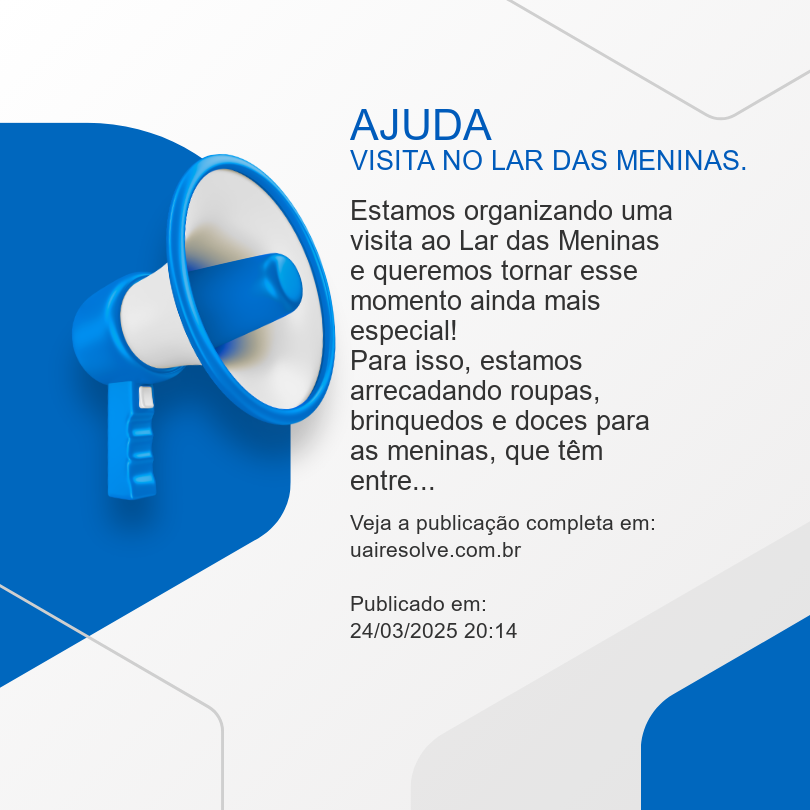
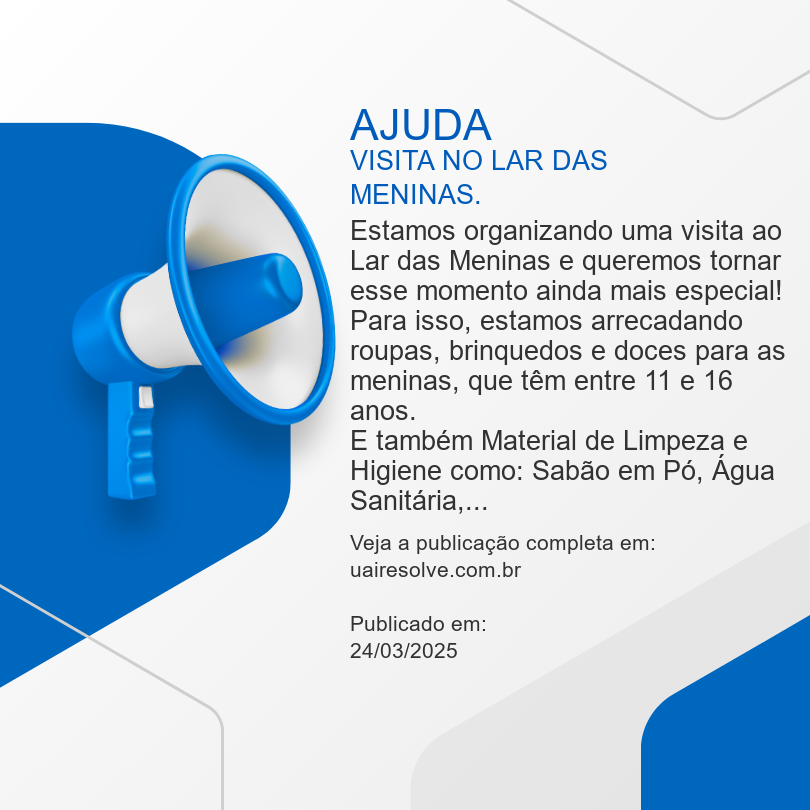
ajuste quantidade caractere

Changed region(s): [[0.4321, 0.216, 0.9568, 0.8333], [0.7407, 0.1852, 0.9259, 0.216]]

diff --git a/app/Http/Controllers/OcorrenciaController.php b/app/Http/Controllers/OcorrenciaController.php
@@ -324,13 +324,15 @@ class OcorrenciaController extends Controller
 
         // Quebrar a descrição em linhas de até 40 caracteres
         $descricaoQuebrada = wordwrap($descricao, 35, "\n");
+        // Quebrar o titulo em linhas de até 3 caracteres
+        $titulo = wordwrap($titulo, 20, "\n");
 
         // Posicionar os textos na imagem
         imagettftext($imagem, 32, 0, 350, 140, $corAzul, $fonte, $categoria);
         imagettftext($imagem, 20, 0, 350, 170, $corAzul, $fonte, $titulo);
 
         // Desenhar a descrição quebrada
-        $posY = 220;
+        $posY = 240;
         foreach (explode("\n", $descricaoQuebrada) as $linha) {
             imagettftext($imagem, 20, 0, 350, $posY, $corPreto, $fonte, $linha);
             $posY += 30; // Ajuste para a próxima linha
